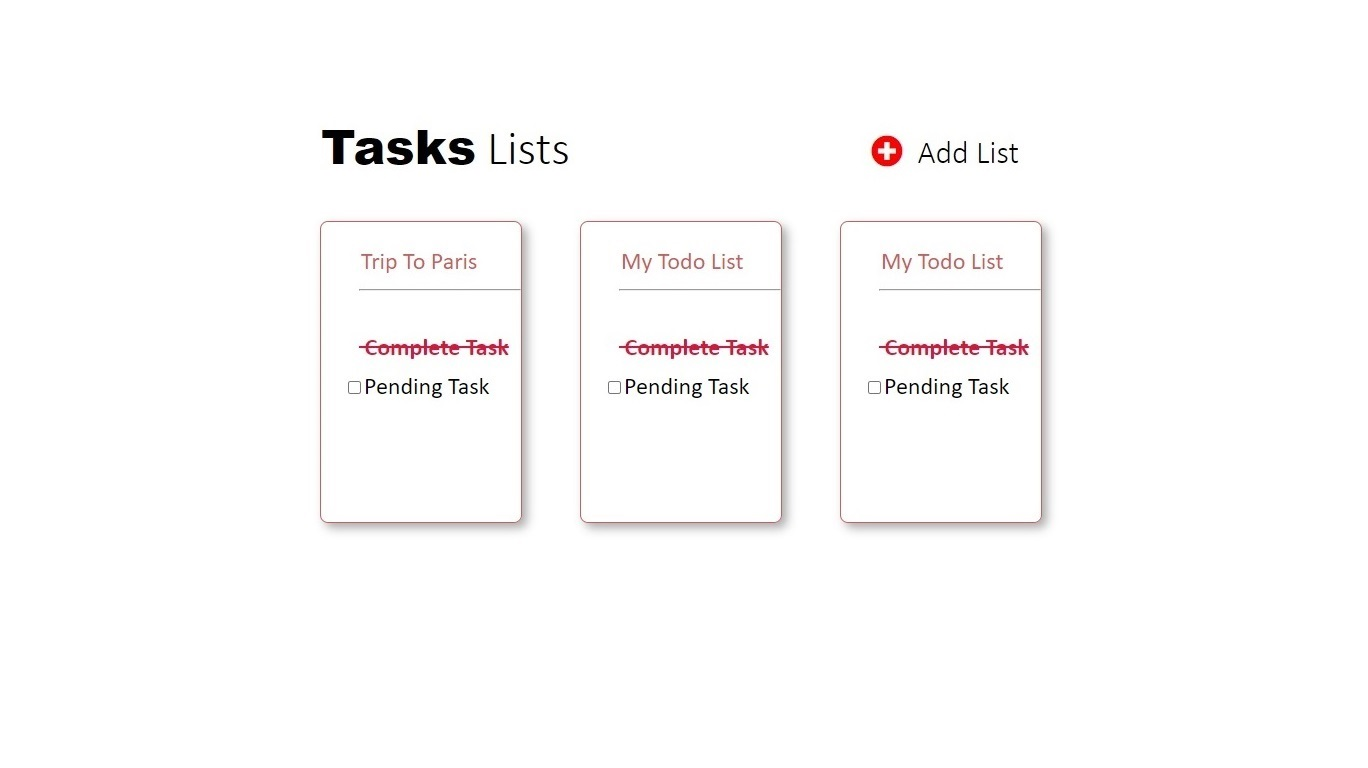
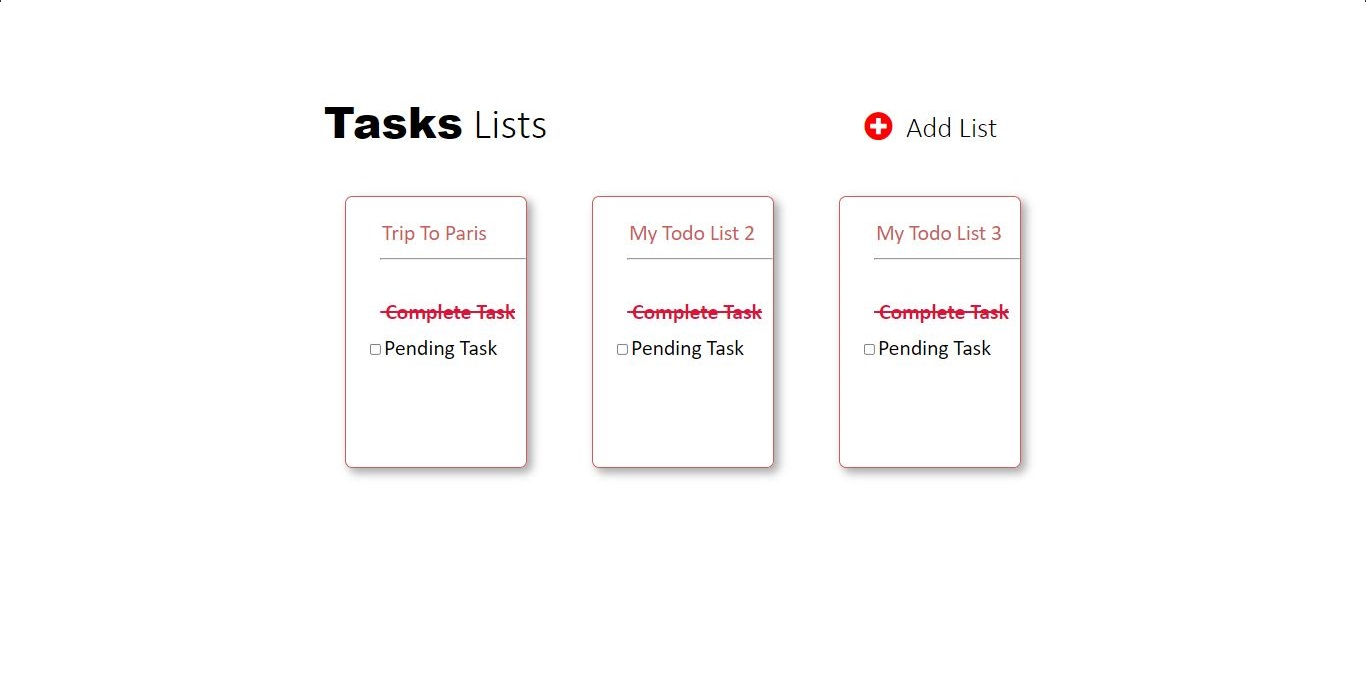
very new

diff --git a/style.css b/style.css
@@ -90,10 +90,11 @@ body {
 }
 
 #tabs {
+    width: 50%;
+    margin: auto;
     margin-top: 50px;
-    display: grid;
-    grid-template-columns: 260px 260px 260px;
-    justify-content: center;
+    display: flex;
+    justify-content: space-between;
 }
 
 .tab {
@@ -157,7 +158,6 @@ body {
     width: 300px;
     margin: auto;
     text-align: center;
-    /* outline: 1px solid grey; */
 }
 
 .imgArea1 {
@@ -191,7 +191,7 @@ body {
 }
 
 .imgArea2 {
-    background-image: url(./Todoappui2.jpg);
+    background-image: url(./Todoappui2.JPG);
     -webkit-background-size: cover;
     background-size: cover;
     background-position: center center;
@@ -252,26 +252,6 @@ body {
     margin-top: 15px;
 }
 
-.tabh2 {
-    display: none;
-}
-
-.tabh3 {
-    display: none;
-}
-
-.tabh4 {
-    display: none;
-}
-
-.tabh5 {
-    display: none;
-}
-
-/* .plusHid{
-    display: none;
-} */
-
 
 @media screen and (min-width: 320px) and (max-width: 750px){
     body {
@@ -292,7 +272,6 @@ body {
         display: flex;
         flex-direction: row;
         justify-content: flex-start;
-        /* outline: 1px solid grey; */
         width: 90%;
     }
     
@@ -320,7 +299,11 @@ body {
     .ttp{
         text-decoration: none; 
         color: grey;
-        padding-left: 0%;
+        padding-left: 5%;
+    }
+
+    .mtdl {
+        padding-left: 5%;
     }
 
     .hr1{
@@ -345,41 +328,19 @@ body {
         position: absolute;
         top: 10%;
         left: 10%;
-        /* outline: 1px solid grey; */
     }
-
-    /* #back {
-        outline: 1px solid grey;
-    } */
-
-    /* #back22{
-        outline: 1px solid grey;
-    } */
     
     .back2 {
         display: none;
     }
-    
-    /* .divicon2 {
-        outline: 1px solid grey;
-        width: 100%;
-        height: 100%;
-    } */
 
     #plusicon2 {
-        /* margin: 50px 0px 0px 180px; */
-        /* margin-top: 15%;
-        margin-left: 50%; 
-        outline: 1px solid grey; */
         width: 10%;
         position: absolute;
         top: 85%;
         left: 80%;
     }
 
-    /* .plusHid
-        display: block;
-    } */
 
     .hr3 {
         width: 70%; 
@@ -390,7 +351,6 @@ body {
     #tabs {
         display: flex;
         flex-direction: column;
-        /* outline: 1px solid grey; */
         width: 90%;
         gap: 20px;
     }
@@ -403,50 +363,24 @@ body {
         border: 1px solid indianred;
         border-radius: 8px;
         box-shadow: 5px 5px 10px darkgray;
-        /* outline: 1px solid grey; */
-    }
-
-    .tab2 {
-        display: none;
-    }
-
-    .tab3 {
-        display: none;
     }
 
     .tab1 {
         padding-left: 0%;
-        margin-left: 3%;
         width: 100%;
         height: 65px;
-    }
-    
-    .tabh2 {
-        margin-left: 3%;
-        display: block;
-        height: 65px;
-        width: 100%;
-    }
-    
-    .tabh3 {
-        margin-left: 3%;
-        display: block;
-        height: 65px;
-        width: 100%;
     }
 
-    .tabh4 {
-        margin-left: 3%;
-        display: block;
-        height: 65px;
+    .tab2 {
+        padding-left: 0%;
         width: 100%;
+        height: 65px;
     }
-    
-    .tabh5 {
-        margin-left: 3%;
-        display: block;
-        height: 65px;
+
+    .tab3 {
+        padding-left: 0%;
         width: 100%;
+        height: 65px;
     }
     
     .strike1 {
@@ -491,7 +425,6 @@ body {
         width: 70%;
         margin: auto;
         text-align: center;
-        /* outline: 1px solid grey; */
         margin-top: -15%;
         position: relative;
     }
@@ -507,9 +440,6 @@ body {
         background-position: center;
         height: 100vh;
         width: 100%;
-        /* position: fixed;
-        left: 0;
-        right: 0; */
         z-index: -1;
         filter: blur(5px);
         -webkit-filter: blur(5px);
@@ -524,13 +454,7 @@ body {
         z-index: 2;
         height: 180px;
         width: 80%;
-        /* position: absolute;
-        top: 50%;
-        left: 50%;
-        transform: translate(-50%,-50%); */
         background: white;
-        /* outline: 1px solid grey; */
-        /* align-content: center; */
     }
 
     .addnew21 {
@@ -543,7 +467,6 @@ body {
         margin-left: 25%;
         width: 50%;
         text-align: center;
-        /* outline: 1px solid grey; */
         justify-content: center;
     }
     
@@ -554,9 +477,6 @@ body {
         background-position: center;
         width: 100%;
         height: 100vh;
-        /* position: fixed;
-        left: 0;
-        right: 0; */
         z-index: -1;
         filter: blur(5px);
         -webkit-filter: blur(5px);
@@ -571,20 +491,13 @@ body {
         z-index: 2;
         height: 180px;
         width: 80%;
-        /* position: absolute;
-        top: 50%;
-        left: 50%;
-        transform: translate(-50%,-50%); */
         background: white;
-        /* outline: 1px solid grey; */
-        /* align-content: center; */
     }
 
     .addnew1 {
         margin-left: 25%;
         width: 50%;
         text-align: center;
-        /* outline: 1px solid grey; */
         justify-content: center;
     }
     
@@ -593,7 +506,6 @@ body {
         height: 30px;
         width: 70%;
         box-shadow: none;
-        /* margin-top: ; */
         margin-left: 15%;
         margin-top: 2%;
     }
@@ -607,6 +519,5 @@ body {
         text-align: center;
         margin: auto;
         margin-top: 3%;
-        /* outline: 1px solid grey; */
     }    
 }

diff --git a/index.html b/index.html
@@ -20,26 +20,14 @@
             <p class="pd"><input type="checkbox">Pending Task</p>
         </div>
         <div class="tab tab2">
-            <p class="mtdl">My Todo List</p><hr class="hr1"><br>
+            <p class="mtdl">My Todo List 2</p><hr class="hr1"><br>
             <span class="strike1"> Complete Task</span>
             <p class="pd"><input type="checkbox">Pending Task</p>
         </div>
         <div class="tab tab3">
-            <p class="mtdl">My Todo List</p><hr class="hr1"><br>
+            <p class="mtdl">My Todo List 3</p><hr class="hr1"><br>
             <span class="strike1"> Complete Task</span><br>
             <p class="pd"><input type="checkbox">Pending Task</p>
-        </div>
-        <div class="tab tabh2">
-            <p>My Todo List2</p>
-        </div>
-        <div class="tab tabh3">
-            <p>My Todo List3</p>
-        </div>
-        <div class="tab tabh4">
-            <p>My Todo List4</p>
-        </div>
-        <div class="tab tabh5">
-            <p>My Todo List5</p>
         </div>
     </div>
 </body>

diff --git a/index2.html b/index2.html
@@ -21,7 +21,6 @@
         <p class="strike2"> Complete Task</p>
         <p class="pd2"><input type="checkbox">Pending Task</p>
         <div class="divicon2"><a href="./index3.html"><i class="fa fa-plus-circle" id="plusicon2"></i></a></div>
-        <!-- <div class="plusHid"><a href="./index3.html"><i class="fa fa-plus-circle"></i></a></div> -->
     </div>
 </body>
 </html>
